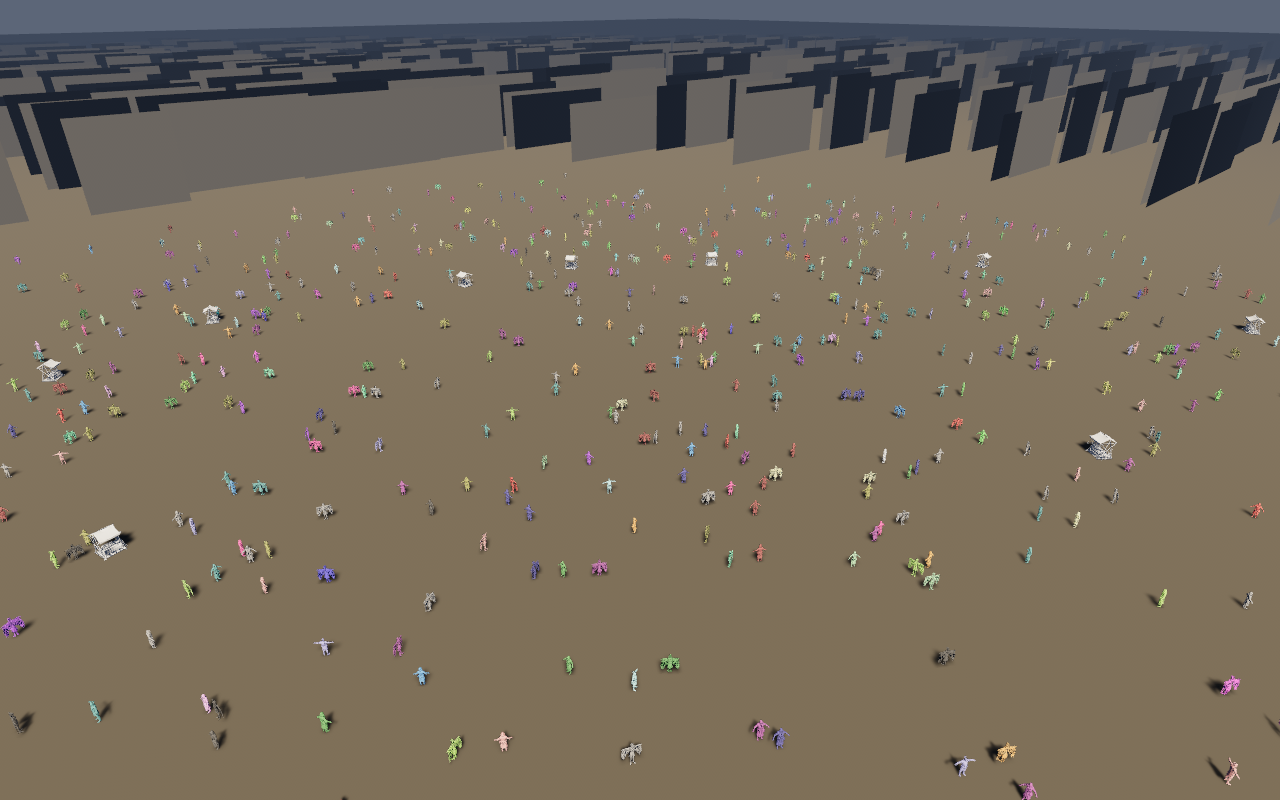
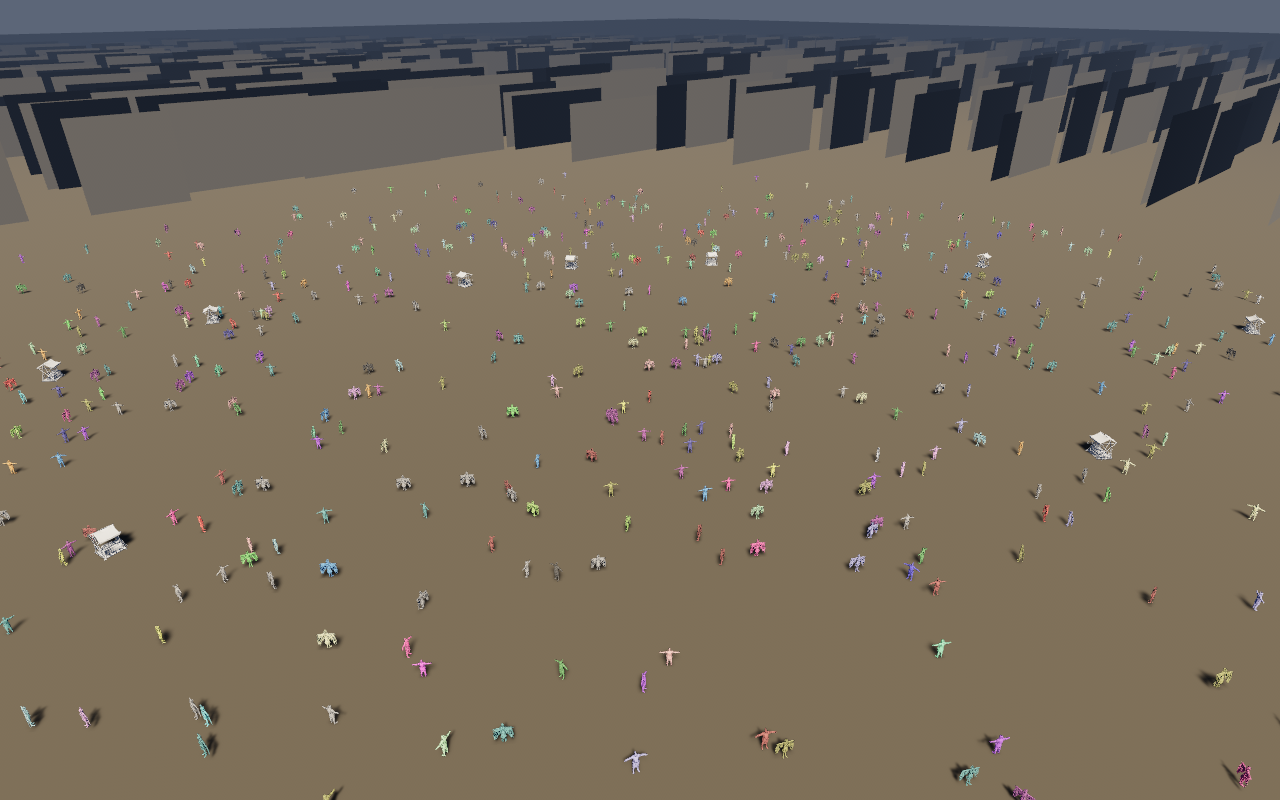
fix(playground): the crowd was frozen; tick it every frame
The window opened onto a diorama. `run` built the scene from a snapshot at `--ticks` and then never
ticked again, so the crowd stood exactly where the pre-warm left it — a scene, not a simulation.

`simulate` now runs in `Update`: one `Playground::tick(1)`, one readback, and every body's position
and yaw written onto the entity that was spawned for its slot. One tick per rendered frame, with the
library's fixed timestep consuming the wall time since the last one, so the crowd crosses the city at
the same speed whether the GPU manages sixty frames a second or a software rasteriser manages four;
only the smoothness changes.

Getting a body onto its entity is the part with a decision in it. `Playground::bodies` sorts by
identity and drops the key, so there is nothing to match on — but the scene was spawned from that
same sorted list, so slot `n` of the snapshot is slot `n` of every later frame. `BodyLink(usize)`
carries the slot, the readback is length-checked before any pose is written, and the spawn loop is
now two loops: the crowd linked, the pylons, shelters and stalls not, since scenery does not walk.

Walking is not just translation. `stride_phase` advances a per-body walk cycle by the distance that
body actually covered last frame and `bob` lifts it 4 cm twice a stride, so a standing NPC's feet stay
still and a walking one's do not. Both are pure functions with tests: half a stride is half a turn, a
[…]

diff --git a/playground/src/lib.rs b/playground/src/lib.rs
@@ -35,12 +35,13 @@ use bevy_ecs::prelude::*;
 use bevy_flock::domain::num;
 use bevy_flock_demo::app::Playground;
 use bevy_flock_demo::render3d::{self, Meshes};
+use bevy_flock_demo::scene::Body;
 use bevy_flock_demo::scene::Scene;
 use bevy_image::ImagePlugin;
 use bevy_input::InputPlugin;
 use bevy_light::{AmbientLight, DirectionalLight, LightPlugin};
 use bevy_log::LogPlugin;
-use bevy_math::Vec3;
+use bevy_math::{Quat, Vec3};
 use bevy_mesh::MeshPlugin;
 use bevy_pbr::{DistanceFog, FogFalloff, PbrPlugin};
 use bevy_render::RenderPlugin;
@@ -52,7 +53,7 @@ use bevy_transform::components::Transform;
 use bevy_window::{Window, WindowPlugin, WindowResolution};
 use bevy_winit::WinitPlugin;
 use camera::{BASE_SPEED, FlyCamera, Views};
-use scene::AshfallScene;
+use scene::{AshfallScene, BodyLink};
 use std::path::PathBuf;
 use wgpu::Backends;
 
@@ -272,6 +273,82 @@ fn parse<T: std::str::FromStr>(value: &str) -> Result<T, Error> {
     value
         .parse()
         .map_err(|_| Error::Usage(format!("`{value}` is not a number")))
+}
+
+/// The live simulation, and the buffer the crowd's poses are read into.
+///
+/// The scene is a snapshot: `Playground::bodies` sorts by identity and collects, which is what makes
+/// a captured frame diffable. Running it is the other half -- tick, read back, write each body onto
+/// the entity that was spawned for its slot.
+///
+/// Non-send, because `Playground` owns an `App` with an exit runner that is not `Send`; a resource
+/// has to be. That costs nothing here: the simulation is one `update()` on the main thread, and a
+/// system with a `NonSendMut` parameter is scheduled there rather than on a task pool worker.
+struct Simulation(Playground);
+
+/// The last readback, plus one walk phase per body.
+#[derive(Resource, Default)]
+struct Crowd {
+    /// Poses as of the last tick.
+    bodies: Vec<Body>,
+    /// Metres walked since the body was spawned, in radians of walk cycle.
+    phases: Vec<f32>,
+}
+
+/// How far one full walk cycle carries a body, in metres.
+const STRIDE_METRES: f32 = 1.5;
+
+/// How far a walking body rises off its feet, in metres.
+const BOB_METRES: f32 = 0.04;
+
+/// Advance a walk phase by the distance walked, wrapped to one turn.
+fn stride_phase(phase: f32, walked: f32) -> f32 {
+    (phase + walked * std::f32::consts::TAU / STRIDE_METRES).rem_euclid(std::f32::consts::TAU)
+}
+
+/// The vertical offset of a walk cycle: two rises per stride, one per step.
+fn bob(phase: f32) -> f32 {
+    phase.sin().abs() * BOB_METRES
+}
+
+/// Tick the simulation once and put every body where it now is.
+///
+/// One tick per rendered frame, and the tick itself advances the library's fixed timestep by the
+/// wall time since the last one -- so the crowd crosses the city at the same speed on a GPU that
+/// draws sixty frames a second and on a software rasteriser that manages four, and only the
+/// smoothness differs. `--ticks` is the pre-warm before the window opens; this is the running.
+fn simulate(
+    mut simulation: NonSendMut<Simulation>,
+    mut crowd: ResMut<Crowd>,
+    mut links: Query<(&BodyLink, &mut Transform)>,
+) {
+    simulation.0.tick(1);
+    crowd.bodies = simulation.0.bodies();
+    // A population that changed between frames invalidates the slot mapping; the next spawn pass
+    // would rebuild it, and until then a body is better left where it is than teleported.
+    let count = crowd.bodies.len();
+    if count != crowd.phases.len() {
+        crowd.phases.resize(count, 0.0);
+    }
+    for (link, mut transform) in &mut links {
+        let Some(body) = crowd.bodies.get(link.0).copied() else {
+            continue;
+        };
+        // Distance across the ground since the last frame, which is what a walk cycle tracks; the
+        // height is taken off both ends so the bob is not counted as walking.
+        let walked = body
+            .position
+            .with_y(0.0)
+            .distance(transform.translation.with_y(0.0));
+        let Some(phase) = crowd.phases.get_mut(link.0) else {
+            transform.translation = body.position;
+            transform.rotation = Quat::from_rotation_y(body.yaw);
+            continue;
+        };
+        *phase = stride_phase(*phase, walked);
+        transform.translation = body.position.with_y(body.position.y + bob(*phase));
+        transform.rotation = Quat::from_rotation_y(body.yaw);
+    }
 }
 
 /// The window's size in pixels, so a report says what it measured.
@@ -533,7 +610,12 @@ fn spawn_sun(mut commands: Commands, views: Res<Views>) {
 }
 
 /// Build the app: the plugins a 3D scene needs, the scene itself, and the systems that steer it.
-pub fn build_app(scene: AshfallScene, views: Views, options: &Options) -> App {
+pub fn build_app(
+    scene: AshfallScene,
+    playground: Playground,
+    views: Views,
+    options: &Options,
+) -> App {
     let mut app = App::new();
     // Two tuples, not one: `Plugins` is implemented for tuples of at most sixteen, and this list is
     // longer than that because the umbrella crate is not here to hide it. The order is Bevy's own.
@@ -593,11 +675,13 @@ pub fn build_app(scene: AshfallScene, views: Views, options: &Options) -> App {
     });
     app.insert_resource(scene);
     app.insert_resource(views);
+    app.world_mut().insert_non_send(Simulation(playground));
+    app.init_resource::<Crowd>();
     app.add_systems(
         Startup,
         (spawn_camera, spawn_sun, scene::spawn_scene).chain(),
     );
-    app.add_systems(Update, (camera::fly, camera::cycle));
+    app.add_systems(Update, (simulate, camera::fly, camera::cycle));
     app
 }
 
@@ -653,7 +737,7 @@ pub fn run(options: &Options) -> Result<(), Error> {
     let names = shots.iter().map(|shot| shot.name).collect();
     let views = Views { shots, current: 0 };
     let ashfall = AshfallScene::new(scene, meshes, names, options.extent);
-    let mut app = build_app(ashfall, views, options);
+    let mut app = build_app(ashfall, playground, views, options);
     app.insert_resource(Lifecycle::new(options.frames, options.capture.clone()));
     app.add_systems(Update, record_frames);
     app.add_systems(Last, lifecycle);
@@ -811,6 +895,36 @@ mod tests {
             "--help",
         ] {
             assert!(USAGE.contains(flag), "the usage does not mention {flag}");
+        }
+    }
+
+    /// A walk cycle advances with the distance walked, and comes back to where it started.
+    #[test]
+    fn the_walk_cycle_tracks_distance_and_wraps() {
+        // No distance, no movement of the legs.
+        assert!(stride_phase(0.0, 0.0).abs() < 1e-6);
+        // Half a stride is half a turn: the other foot is down.
+        assert!((stride_phase(0.0, STRIDE_METRES / 2.0) - std::f32::consts::PI).abs() < 1e-5);
+        // A whole stride is a whole turn, which is no turn at all.
+        assert!(stride_phase(0.0, STRIDE_METRES).abs() < 1e-5);
+        // However far a body walks, the phase stays inside one turn.
+        let far = stride_phase(0.0, 100_000.0);
+        assert!((0.0..std::f32::consts::TAU).contains(&far), "{far}");
+        // Phases accumulate: two half strides land where one whole stride would.
+        let two = stride_phase(stride_phase(0.0, STRIDE_METRES / 2.0), STRIDE_METRES / 2.0);
+        assert!(two.abs() < 1e-5 || (two - std::f32::consts::TAU).abs() < 1e-5);
+    }
+
+    /// The bob is a rise, twice a stride, and never more than its amplitude.
+    #[test]
+    fn the_bob_rises_and_never_exceeds_its_amplitude() {
+        assert!(bob(0.0).abs() < 1e-6);
+        assert!((bob(std::f32::consts::FRAC_PI_2) - BOB_METRES).abs() < 1e-6);
+        assert!(bob(std::f32::consts::PI).abs() < 1e-5);
+        for step in 0..64 {
+            let phase = std::f32::consts::TAU * num::u32_to_f32(step) / 64.0;
+            let rise = bob(phase);
+            assert!((0.0..=BOB_METRES + 1e-6).contains(&rise), "{rise}");
         }
     }
 

diff --git a/playground/src/scene.rs b/playground/src/scene.rs
@@ -193,6 +193,46 @@ impl AshfallScene {
     }
 }
 
+/// The crowd entity's slot in the body list, so a frame can find the pose that belongs to it.
+///
+/// The scene is spawned from a snapshot sorted by identity, and `Playground::bodies` sorts the same
+/// way, so slot `n` of the snapshot is slot `n` of every later frame. That holds until the
+/// population changes, which is why the simulation checks the count before it writes a pose.
+#[derive(Component, Debug, Clone, Copy, PartialEq, Eq)]
+pub struct BodyLink(pub usize);
+
+/// Mesh and material handles, resolved once per model and once per tint bucket.
+#[derive(Default)]
+struct Handles {
+    meshes: BTreeMap<&'static str, Handle<BevyMesh>>,
+    materials: BTreeMap<[u8; 3], Handle<StandardMaterial>>,
+}
+
+impl Handles {
+    /// The pair one instance draws with, or `None` if the scene names a model it does not carry.
+    fn of(
+        &mut self,
+        instance: &Instance,
+        scene: &AshfallScene,
+        meshes: &mut Assets<BevyMesh>,
+        materials: &mut Assets<StandardMaterial>,
+    ) -> Option<(Handle<BevyMesh>, Handle<StandardMaterial>)> {
+        let model = scene.meshes.get(instance.model)?;
+        let mesh = self
+            .meshes
+            .entry(instance.model)
+            .or_insert_with(|| meshes.add(bevy_mesh(model)))
+            .clone();
+        let bucket = tint_bucket(instance.tint);
+        let material = self
+            .materials
+            .entry(bucket)
+            .or_insert_with(|| materials.add(material_for(bucket)))
+            .clone();
+        Some((mesh, material))
+    }
+}
+
 /// Spawn every instance in the scene, one entity per body, merged materials per tint bucket.
 ///
 /// Bodies share a mesh per model and a material per bucket, which is what lets Bevy draw a
@@ -203,36 +243,40 @@ pub fn spawn_scene(
     mut meshes_assets: ResMut<Assets<BevyMesh>>,
     mut materials: ResMut<Assets<StandardMaterial>>,
 ) {
-    let mut mesh_handles: BTreeMap<&'static str, Handle<BevyMesh>> = BTreeMap::new();
-    let mut material_handles: BTreeMap<[u8; 3], Handle<StandardMaterial>> = BTreeMap::new();
-
+    let mut handles = Handles::default();
+    // The crowd, linked to its slot so the simulation can move it afterwards.
+    for (index, instance) in scene.scene.bodies.iter().enumerate() {
+        let Some((mesh, material)) =
+            handles.of(instance, &scene, &mut meshes_assets, &mut materials)
+        else {
+            continue;
+        };
+        commands.spawn((
+            Mesh3d(mesh),
+            MeshMaterial3d(material),
+            transform_for(instance),
+            BodyLink(index),
+        ));
+    }
+    // The scenery: pylons, shelters and stalls never move, so they carry no link.
     for instance in scene
         .scene
-        .bodies
+        .pylons
         .iter()
-        .chain(scene.scene.pylons.iter())
         .chain(scene.scene.shelters.iter())
         .chain(scene.scene.stalls.iter())
     {
-        let Some(model) = scene.meshes.get(instance.model) else {
+        let Some((mesh, material)) =
+            handles.of(instance, &scene, &mut meshes_assets, &mut materials)
+        else {
             continue;
         };
-        let mesh = mesh_handles
-            .entry(instance.model)
-            .or_insert_with(|| meshes_assets.add(bevy_mesh(model)))
-            .clone();
-        let bucket = tint_bucket(instance.tint);
-        let material = material_handles
-            .entry(bucket)
-            .or_insert_with(|| materials.add(material_for(bucket)))
-            .clone();
         commands.spawn((
             Mesh3d(mesh),
             MeshMaterial3d(material),
             transform_for(instance),
         ));
     }
-
     // The city sits on something. Without this the crowd stands in the clear colour and the blocks
     // float, which reads as a broken renderer rather than as an empty plain.
     let ground = meshes_assets.add(ground_mesh(scene.extent));
@@ -247,7 +291,8 @@ pub fn spawn_scene(
     ));
     let cube = meshes_assets.add(cube_mesh());
     for block in &scene.scene.blocks {
-        let material = material_handles
+        let material = handles
+            .materials
             .entry(tint_bucket([
                 block.ruin.clamp(0.0, 1.0) * -0.18 + 0.42,
                 0.40,

diff --git a/playground/README.md b/playground/README.md
@@ -43,6 +43,26 @@ different rasteriser, different shading model, different anti-aliasing.*
 `--backend metal` on a machine without Metal is not a fallback: wgpu finds no adapter and Bevy
 reports it. That is deliberate, because a demo that silently draws nothing looks like a scene bug.
 
+## The crowd moves
+
+This is not a diorama. Every frame ticks the simulation once and writes each body's pose onto the
+entity that was spawned for its slot: position, facing, and a 4 cm walk bob whose phase advances with
+the distance that body actually covers, so a standing NPC's feet stay still and a walking one's do
+not. `--ticks` is the pre-warm before the window opens — the crowd arrives already dispersed — and
+from the first frame on it is live.
+
+One tick per *rendered* frame, and the tick itself advances the library's fixed timestep by the wall
+time since the last one. That is what keeps the crowd's speed honest: sixty frames a second and four
+frames a second move the crowd across the city at the same rate, and only the smoothness differs. On
+a software rasteriser that means a quarter-second stride per frame — correct, and visibly coarse.
+That coarseness is the reason the timing line above is worth reading before judging the motion.
+
+Each frame reads the crowd back with `Playground::bodies`, which allocates one `Vec` of 2,000 bodies
+and sorts it. That is a demo-side cost, not the library's: `bodies` is a snapshot API built for
+diffable captures, and the zero-allocation claims in the library docs are about the steering kernels,
+not this readback. A streaming accessor keyed by identity is the fix if this ever matters at 10,000
+bodies; at 2,000 the sort is a rounding error next to the draw.
+
 When the frame count runs out, the run prints one line and exits:
 
 ```text

diff --git a/docs/playbooks/bevy-playground.md b/docs/playbooks/bevy-playground.md
@@ -65,6 +65,17 @@ cargo run --manifest-path playground/Cargo.toml -- --help
 | `--extent M` | layout half-extent in metres, default 900 |
 | `--help` | usage |
 
+## It moves
+
+The window is a running simulation, not a snapshot: each frame calls `Playground::tick(1)` and writes
+every body's position and yaw onto its entity, plus a walk bob driven by the distance that body has
+covered. `--ticks` only decides how dispersed the crowd is when the window opens.
+
+One tick per rendered frame, with the library's fixed timestep consuming the wall time since the last
+frame: the crowd crosses the city at the same speed regardless of frame rate, and only the smoothness
+changes. On a software rasteriser that is a quarter-second step per frame, which reads as coarse
+motion rather than as a different speed — worth knowing before judging a capture.
+
 ## Reading the run
 
 Two lines matter. The first is Bevy's, and names the device:
